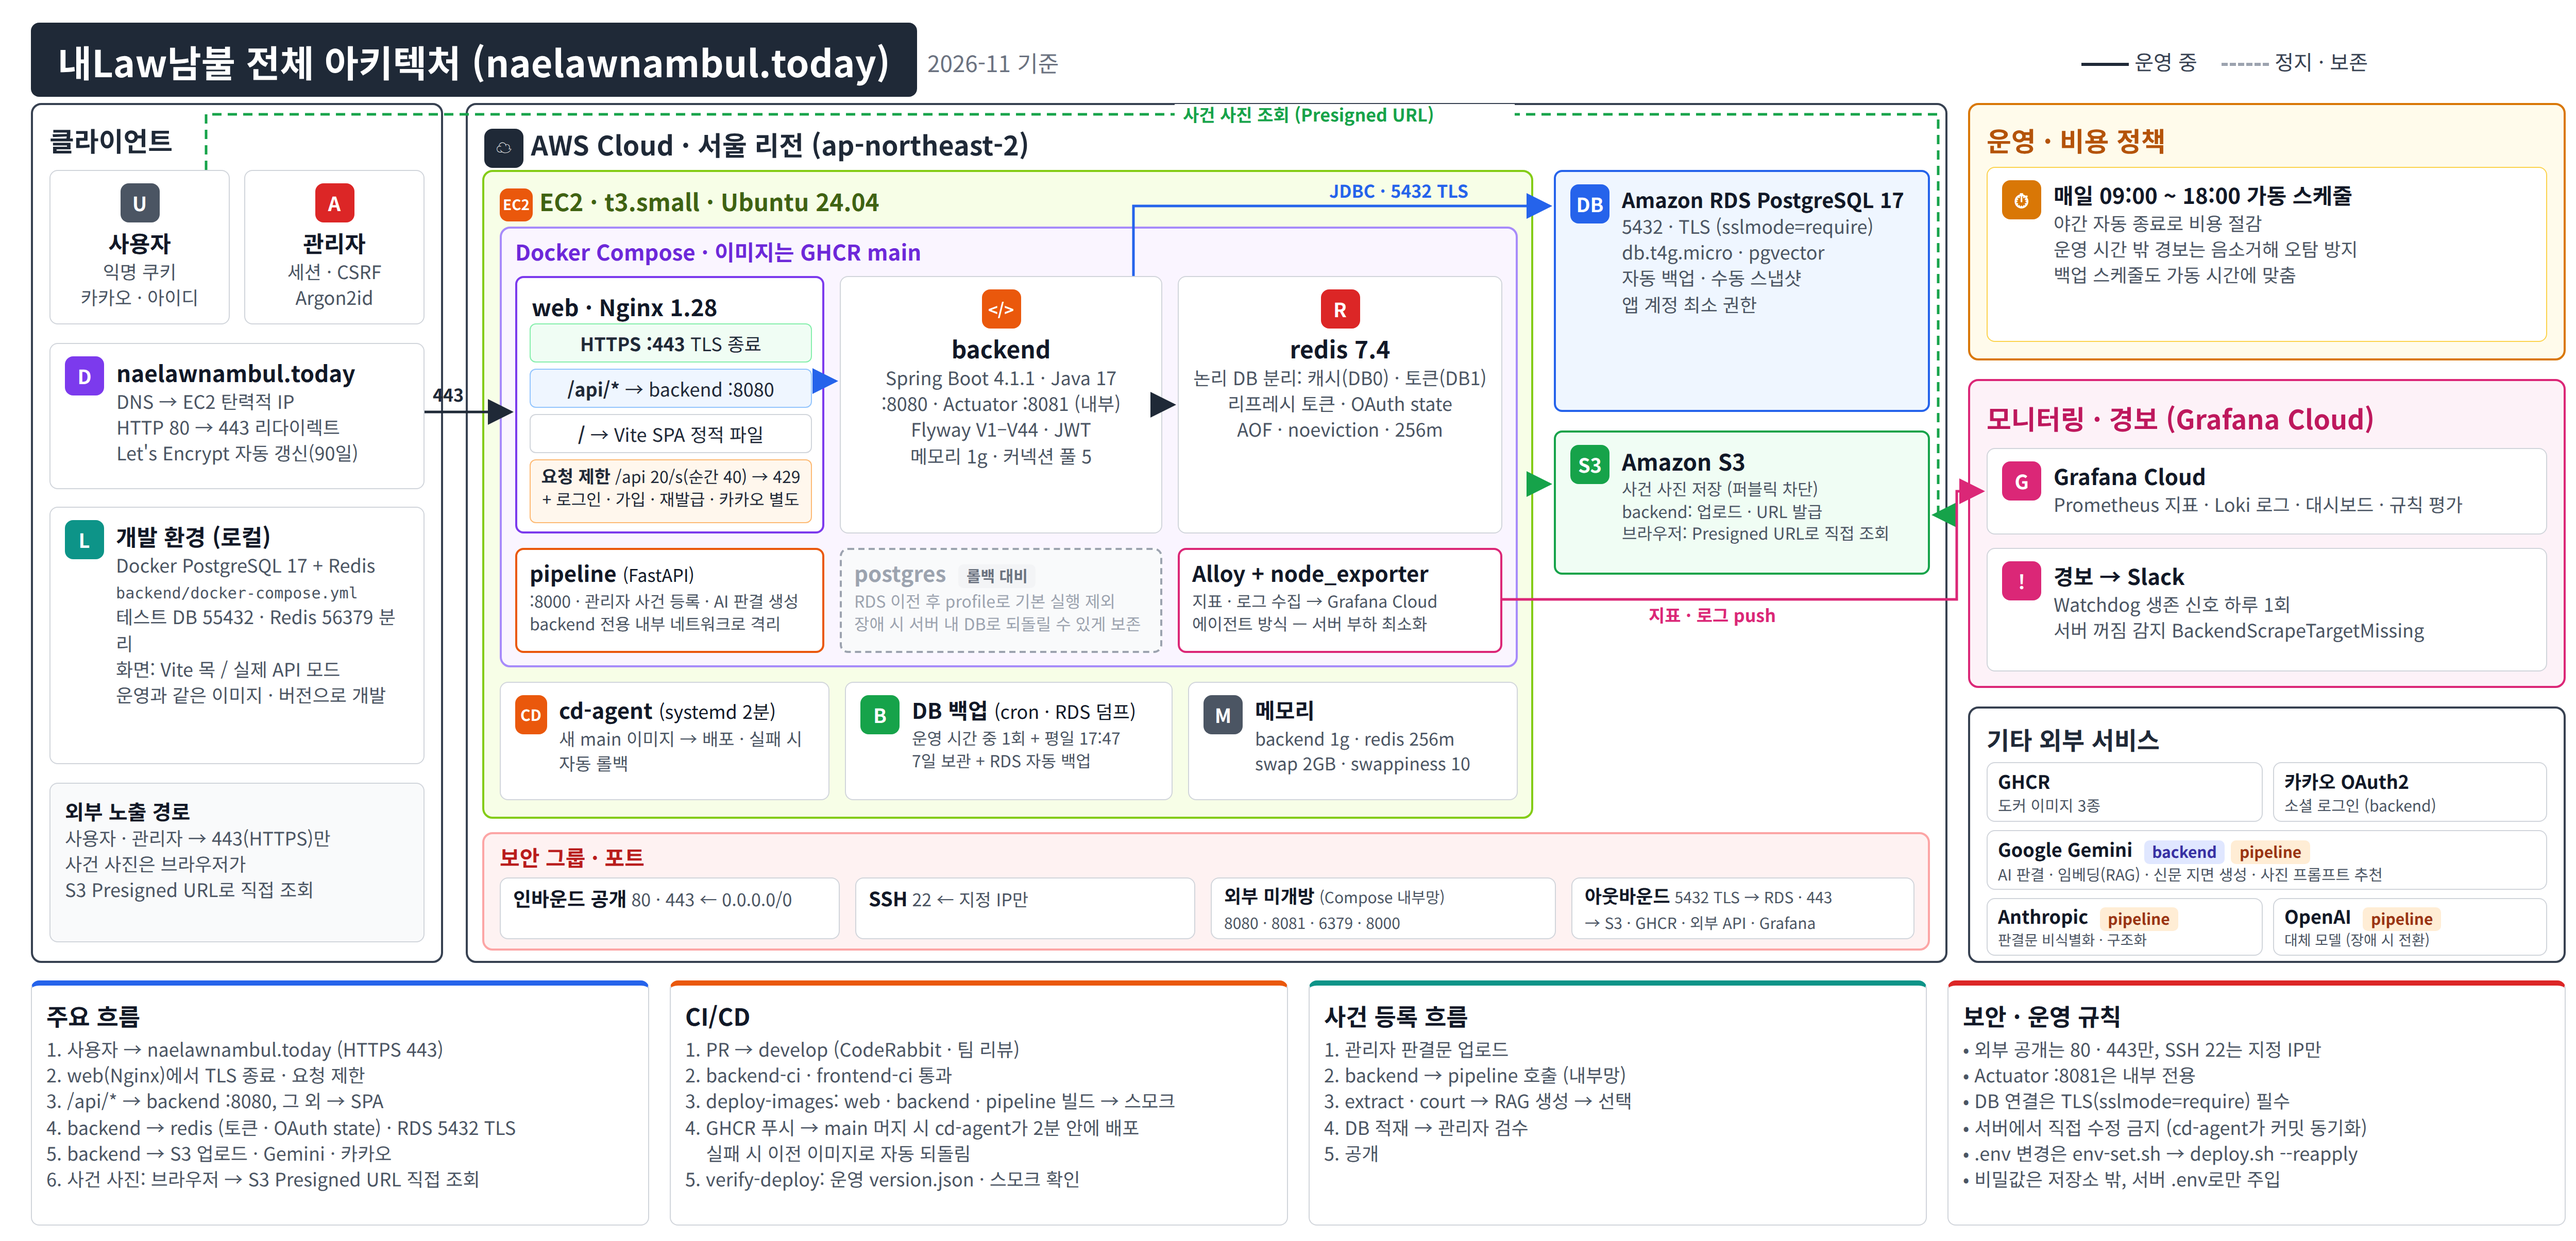
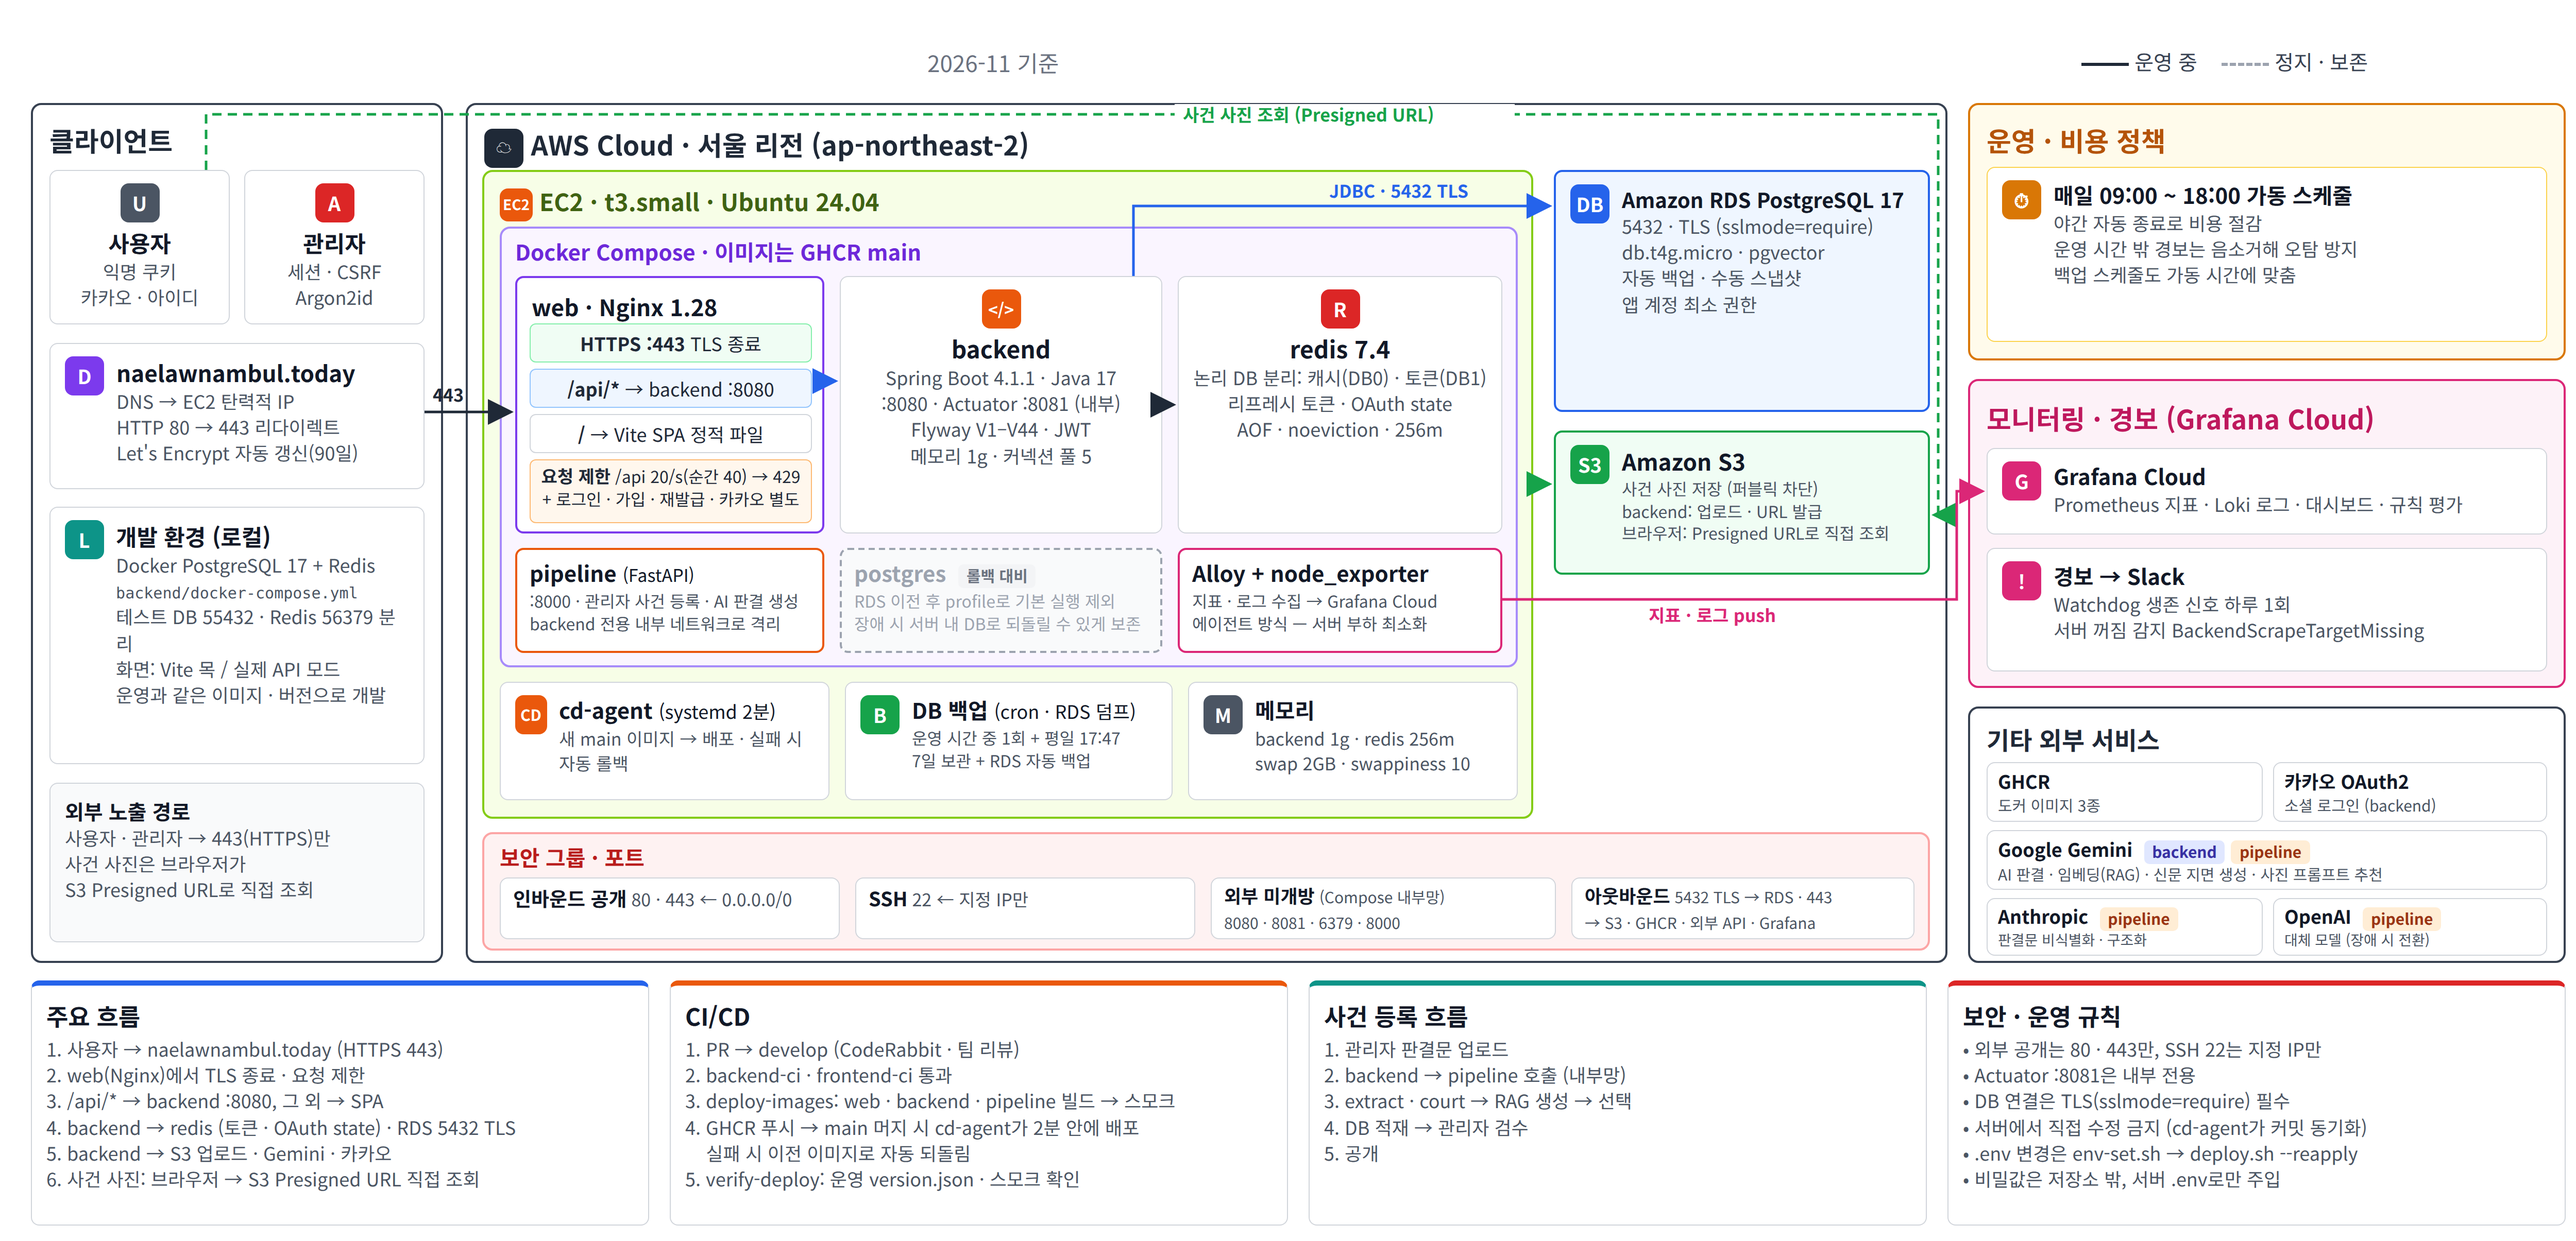
docs : COMMON-75 루트 README 정리 — 워드마크 · 팀 소개 · 주요 화면 추가
- 상단에 배경 없는 워드마크(라이트 · 다크 모드 두 벌)와 소개 문구
- 팀 표(백승호 · 정민석 · 김현중 · 김해송), 핵심 포인트, 체험 흐름(mermaid)
- 주요 화면 캡처 8장(docs/assets/screenshots), 아키텍처 그림
- 로컬 실행 상세(시드 · 서브모듈 · 환경변수)는 <details>로 접어 기존 내용 유지
- architecture.png 좌측 상단 제목 상자 제거

Claude-Session: https://claude.ai/code/session_01NsVhdETMt78Q5pCRYFZw6M

Changed region(s): [[0.0, 0.0, 0.3744, 0.0934]]

diff --git a/README.md b/README.md
@@ -1,14 +1,63 @@
-# 내Law남불
+<p align="center">
+  <picture>
+    <source media="(prefers-color-scheme: dark)" srcset="./docs/assets/wordmark-dark.webp" />
+    <img src="./docs/assets/wordmark-light.webp" alt="내Law남불" width="360" />
+  </picture>
+</p>
 
-> 당신이 판사라면, 어떤 판결을 내리겠습니까?
+<p align="center">
+  다 알고 나서도, 같은 판단일까?<br />
+  사건을 단계별로 읽고 직접 판결을 내린 뒤, AI · 실제 판결과 같은 기준으로 비교하는 판결 체험 서비스
+</p>
 
-사용자가 사건을 단계별로 읽고 **직접 판결을 내린 뒤**, AI 판결과 실제 판결을 **같은 판단 요소**로 비교해 보는 서비스다. AIBE7 최종 프로젝트 Team2가 만든다.
+<div align="center">
 
-MVP는 로그인 없이, 대표 사건 1건으로 아래 흐름을 끝까지 체험하는 것이다. ([MVP 정의서](docs/mvp-definition.md))
+|                                     백승호                                     |                                   정민석                                   |                                   김현중                                   |                                  김해송                                   |
+|:---------------------------------------------------------------------------:|:-----------------------------------------------------------------------:|:-----------------------------------------------------------------------:|:----------------------------------------------------------------------:|
+| <img src="https://avatars.githubusercontent.com/pooreunblue" width="100"/> | <img src="https://avatars.githubusercontent.com/jms0326" width="100"/> | <img src="https://avatars.githubusercontent.com/YOLO-NIM" width="100"/> | <img src="https://avatars.githubusercontent.com/peanutboi710" width="100"/> |
+|              [@pooreunblue](https://github.com/pooreunblue)               |                [@jms0326](https://github.com/jms0326)                 |                [@YOLO-NIM](https://github.com/YOLO-NIM)                 |                 [@peanutboi710](https://github.com/peanutboi710)                 |
 
+</div>
+
+## 핵심 포인트
+
+- <sub>실제 판결은 마지막 막까지 비공개, 제출한 판단은 고칠 수 없게 **서버가 진행 상태 7단계를 강제**</sub>
+- <sub>사용자 · AI · 재판부 판단을 `judgment` 한 테이블에 저장, "1회 제출"은 **부분 유니크 인덱스로 보장**</sub>
+- <sub>AI 판결은 **미리 생성 → 관리자 검수 후 공개** (비식별화 · RAG · 사전 학습 점검 파이프라인)</sub>
+- <sub>관리자(세션 · CSRF) · 카카오 로그인(OAuth) · 사용자(JWT) **보안 필터 체인 3분리**</sub>
+- <sub>IAM 권한 없이 서버가 이미지를 당겨 오는 **자동 배포**, 실패하면 직전 버전으로 자동 되돌림</sub>
+- <sub>Grafana Cloud · Slack 경보, Nginx 요청 제한, 작업마다 남긴 **의사결정 기록 240건 이상**</sub>
+
+## 체험 흐름
+
+```mermaid
+flowchart LR
+    A["성향 테스트"] --> B["첫인상<br/>(구경꾼의 나)"]
+    B --> C["재판"]
+    C --> D["내 판결<br/>(판사의 나)"]
+    D --> E["AI 판결"]
+    E --> F["실제 판결"]
+    F --> G["세 판결 비교"]
+    G --> H["마이페이지 · 성향 갱신"]
 ```
-사전 판단 → 단계별 사건 확인 → 직접 판결 → AI 판결 → 실제 판결 → 세 판결 비교
-```
+
+## 주요 화면
+
+| 메인 | 첫인상 |
+| :---: | :---: |
+| ![메인](./docs/assets/screenshots/main-desk.webp) | ![첫인상](./docs/assets/screenshots/first-impression.webp) |
+| **재판** | **내 판결** |
+| ![재판](./docs/assets/screenshots/trial.webp) | ![내 판결](./docs/assets/screenshots/my-verdict.webp) |
+| **AI 판결** | **세 판결 비교** |
+| ![AI 판결](./docs/assets/screenshots/ai-verdict.webp) | ![세 판결 비교](./docs/assets/screenshots/comparison.webp) |
+| **성향 테스트** | **관리자 검수** |
+| ![성향 테스트](./docs/assets/screenshots/personality.webp) | ![관리자 검수](./docs/assets/screenshots/admin-review.webp) |
+
+## 아키텍처
+
+<p align="center">
+  <img src="./docs/assets/architecture.png" alt="인프라 아키텍처" width="90%" />
+</p>
 
 ## 기술 스택
 
@@ -24,29 +73,41 @@ MVP는 로그인 없이, 대표 사건 1건으로 아래 흐름을 끝까지 체
 
 자세한 구성과 선택 이유는 [기술 스택 정리](docs/tech-stack.md), 운영 구성 전체는 [인프라 아키텍처](docs/architecture.md)를 본다.
 
-## 폴더 구조
+## 상세 문서
 
-| 폴더 | 내용 |
+| 문서 | 링크 |
 | --- | --- |
-| `backend/` | Spring Boot API 서버, 로컬 개발용 PostgreSQL(`docker-compose.yml`), DB 마이그레이션 · 개발용 시드 |
-| `frontend/` | 화면 (자세한 내용은 [frontend/README.md](frontend/README.md)) |
-| `docs/` | 기획 · 설계 문서 ([문서 목차](docs/README.md)) |
-| `tools/ai-judgment/` | AI 판결 생성 · 검수 도구와 파이프라인 서비스 ([README](tools/ai-judgment/README.md)) |
-| `deploy/` | 운영 배포 구성 · 스크립트 (Compose · 배포 · 백업 · HTTPS, [README](deploy/README.md)) |
-| `monitoring/` | 지표 · 로그 · 대시보드 · 경보 설정 (로컬 확인용 + Grafana Cloud 설정 기록, [README](monitoring/README.md)) |
-| `.github/workflows/` | CI · 이미지 빌드 · 운영 배포 확인 워크플로우 ([README](.github/workflows/README.md)) |
+| 전체 문서 안내 | [docs/README.md](./docs/README.md) |
+| 기술 스택 · 선택 이유 | [docs/tech-stack.md](./docs/tech-stack.md) |
+| API 명세 | [docs/api-specification.md](./docs/api-specification.md) |
+| ERD | [docs/erd.md](./docs/erd.md) |
+| 유저 흐름도 | [docs/user-flow.md](./docs/user-flow.md) |
+| 인프라 아키텍처 | [docs/architecture.md](./docs/architecture.md) |
+| AI 판결 파이프라인 | [docs/ai-judgment-pipeline.md](./docs/ai-judgment-pipeline.md) |
+| 배포 · 운영 | [deploy/README.md](./deploy/README.md) |
+| 모니터링 | [monitoring/README.md](./monitoring/README.md) |
+| Git · 코드 컨벤션 | [GIT_CONVENTIONS.md](./docs/conventions/GIT_CONVENTIONS.md) · [CODE_CONVENTIONS.md](./docs/conventions/CODE_CONVENTIONS.md) |
 
-## 로컬 실행
+## 실행
 
-### 백엔드
-
-JDK 17이 필요하다. 기본 JDK가 17이 아니면 `JAVA_HOME`을 17로 지정한 뒤 실행한다.
+### Backend
 
 ```bash
 cd backend
-docker compose up -d      # PostgreSQL(lawnambul-postgres, 5432) · Redis(lawnambul-redis, 127.0.0.1:6379) 컨테이너 실행
-./gradlew bootRun         # 서버 실행 (기본 8080, 시작할 때 Flyway가 스키마 · 시드를 넣는다)
+docker compose up -d      # 로컬 PostgreSQL · Redis
+./gradlew bootRun         # http://localhost:8080 (시작할 때 Flyway가 스키마 · 개발용 가상 사건을 넣는다)
 ```
+
+### Frontend
+
+```bash
+cd frontend
+npm install
+npm run dev               # http://localhost:5173 (/api는 8080으로 프록시)
+```
+
+<details>
+<summary>로컬 실행 상세 (시드 · 실제 사건 서브모듈 · 환경변수 · 테스트)</summary>
 
 `./gradlew bootRun`은 **시드 위치를 자동으로 정한다**(BE-28, `backend/build.gradle`). 환경변수를 따로 줄 필요가 없다.
 
@@ -102,33 +163,8 @@ ls backend/private-seed/seed                # R__10 · R__20 · R__30 세 파일
 
 운영 DB 계정은 이 저장소에 적지 않고 실행할 때 환경변수로만 넘긴다. 시드는 운영에 넣지 않는다.
 
-### 프론트엔드
 
-```bash
-cd frontend
-npm install
-npm run dev     # http://localhost:5173 (/api 요청은 localhost:8080 백엔드로 프록시)
-```
+- 테스트는 테스트 전용 PostgreSQL(55432) · Redis(56379)를 쓴다 → [backend/TESTING.md](./backend/TESTING.md)
+- API 없이 화면만 보려면 `http://localhost:5173/preview.html` → [frontend/README.md](./frontend/README.md)
 
-API 없이 화면만 확인하려면 개발 서버를 켠 뒤 `http://localhost:5173/preview.html`을 연다. 자세한 내용은 [frontend/README.md](frontend/README.md)와 [목 API 설명](frontend/src/mocks/README.md)을 본다.
-
-## 문서
-
-| 문서 | 내용 |
-| --- | --- |
-| [문서 목차](docs/README.md) | 모든 문서의 역할과 읽는 순서 |
-| [API 명세서](docs/api-specification.md) | 경로 · 요청 · 응답 · 에러 코드 |
-| [ERD](docs/erd.md) | 테이블 · 제약 · 예시 데이터 |
-| [정보 구조](docs/information-architecture.md) | 화면 목록과 흐름 |
-| [유저 흐름도](docs/user-flow.md) | MVP · 확장 단계 사용자 흐름 |
-| [인프라 아키텍처](docs/architecture.md) | 운영 구성 · 요청 흐름 · 배포 흐름 · 외부 서비스 · 운영 규칙 (배포 · 모니터링 문서의 입구) |
-
-## 협업 규칙
-
-작업은 **Jira 이슈**로 시작하고, 브랜치 · 커밋 · PR 이름에 이슈 키(`BE-15`, `FE-8` 등)를 넣는다. 자세한 규칙은 [Git 컨벤션](docs/conventions/GIT_CONVENTIONS.md), 코드 규칙은 [코드 컨벤션](docs/conventions/CODE_CONVENTIONS.md)을 따른다.
-
-| 항목 | 형식 | 예 |
-| --- | --- | --- |
-| 브랜치 | `feature/{ISSUE-KEY}-{작업내용}` | `feature/BE-15-login-api` |
-| 커밋 | `영어카테고리 : ISSUE-KEY 한글 설명` | `feat : BE-15 로그인 API 구현` |
-| PR 제목 | `[ISSUE-KEY] 작업 내용` | `[BE-15] 로그인 API 구현` |
+</details>
